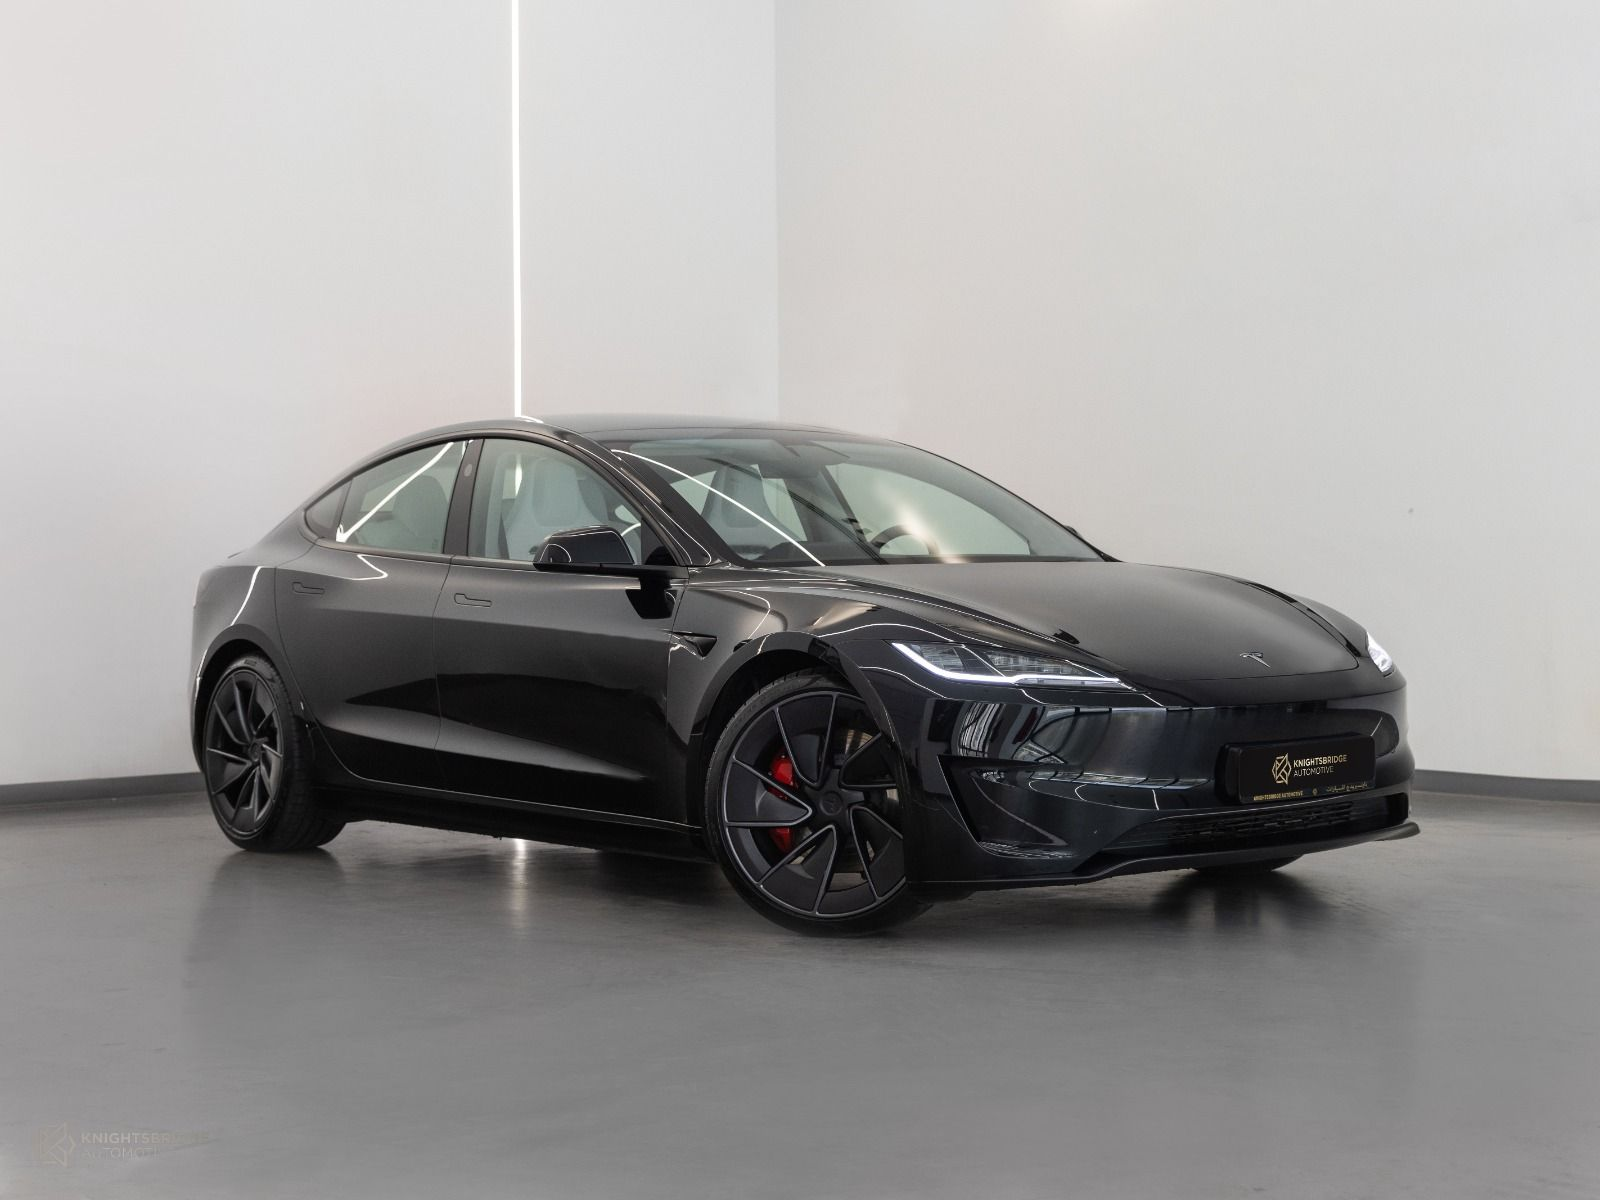
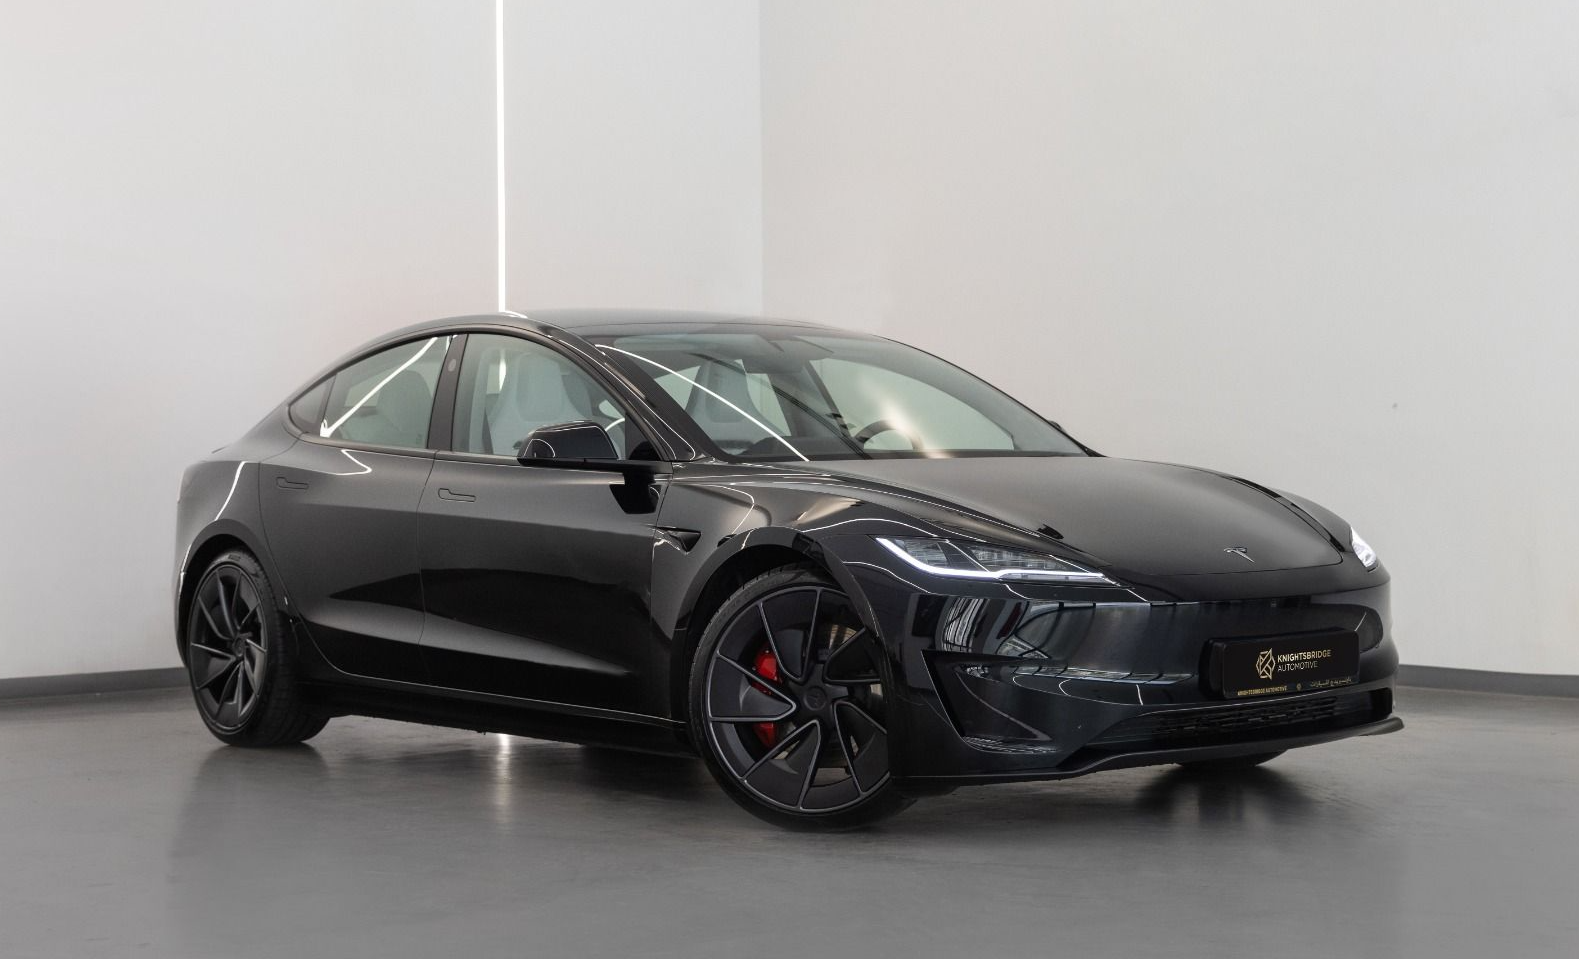
fixed all cars photos with correct size and format

Changed region(s): [[0.0, 0.0, 1.0, 0.9072], [0.0, 0.9677, 0.031, 0.9979]]

diff --git a/src/main/java/com/bluehawana/rentingcarsys/config/DataInitializer.java b/src/main/java/com/bluehawana/rentingcarsys/config/DataInitializer.java
@@ -26,7 +26,7 @@ public class DataInitializer {
                             .model("Tesla Model 3")
                             .licensePlate("ABC123")
                             .hourRate(new BigDecimal("110.00"))
-                            .imageUrl("http://localhost:8085/uploads/model_3.png")
+                            .imageUrl("http://localhost:8080/uploads/model_3.png")
                             .isAvailable(true)
                             .location("Chalmers University")
                             .year(2024)
@@ -37,7 +37,7 @@ public class DataInitializer {
                             .model("Tesla Model Y")
                             .licensePlate("DEF456")
                             .hourRate(new BigDecimal("120.00"))
-                            .imageUrl("http://localhost:8085/uploads/model_y.png")
+                            .imageUrl("http://localhost:8080/uploads/model_y.png")
                             .isAvailable(true)
                             .location("Lindholmen Science Park")
                             .year(2024)
@@ -48,7 +48,7 @@ public class DataInitializer {
                             .model("Tesla Model S")
                             .licensePlate("GHI789")
                             .hourRate(new BigDecimal("150.00"))
-                            .imageUrl("http://localhost:8085/uploads/model_s.png")
+                            .imageUrl("http://localhost:8080/uploads/model_s.png")
                             .isAvailable(true)
                             .location("Lindholmen Science Park")
                             .year(2024)
@@ -59,7 +59,7 @@ public class DataInitializer {
                             .model("Tesla Model X")
                             .licensePlate("JKL012")
                             .hourRate(new BigDecimal("170.00"))
-                            .imageUrl("http://localhost:8085/uploads/model_x.png")
+                            .imageUrl("http://localhost:8080/uploads/model_x.png")
                             .isAvailable(true)
                             .location("Nordstan Park")
                             .year(2024)
@@ -70,7 +70,7 @@ public class DataInitializer {
                             .model("Tesla Cybertruck")
                             .licensePlate("MNO345")
                             .hourRate(new BigDecimal("250.00"))
-                            .imageUrl("http://localhost:8085/uploads/cybertruck.png")
+                            .imageUrl("http://localhost:8080/uploads/cybertruck.png")
                             .isAvailable(true)
                             .location("Chalmers University")
                             .year(2024)
@@ -81,7 +81,7 @@ public class DataInitializer {
                             .model("Tesla Roadster")
                             .licensePlate("PQR678")
                             .hourRate(new BigDecimal("300.00"))
-                            .imageUrl("http://localhost:8085/uploads/roadster.png")
+                            .imageUrl("http://localhost:8080/uploads/roadster.png")
                             .isAvailable(true)
                             .location("Nordstan Park")
                             .year(2024)

diff --git a/src/main/java/com/bluehawana/rentingcarsys/dto/BookingRequestDTO.java b/src/main/java/com/bluehawana/rentingcarsys/dto/BookingRequestDTO.java
@@ -9,11 +9,13 @@ import java.math.BigDecimal;
 
 @Data
 public class BookingRequestDTO {
+    private Long carId;
+    private Long userId;
     private LocalDateTime startTime;
     private LocalDateTime endTime;
     private BigDecimal totalPrice;
     @Getter
-    private Object userEmail;
+    private Object userEyanyanmail;
 
     public long getTotalHours() {
         return java.time.Duration.between(startTime, endTime).toHours();
